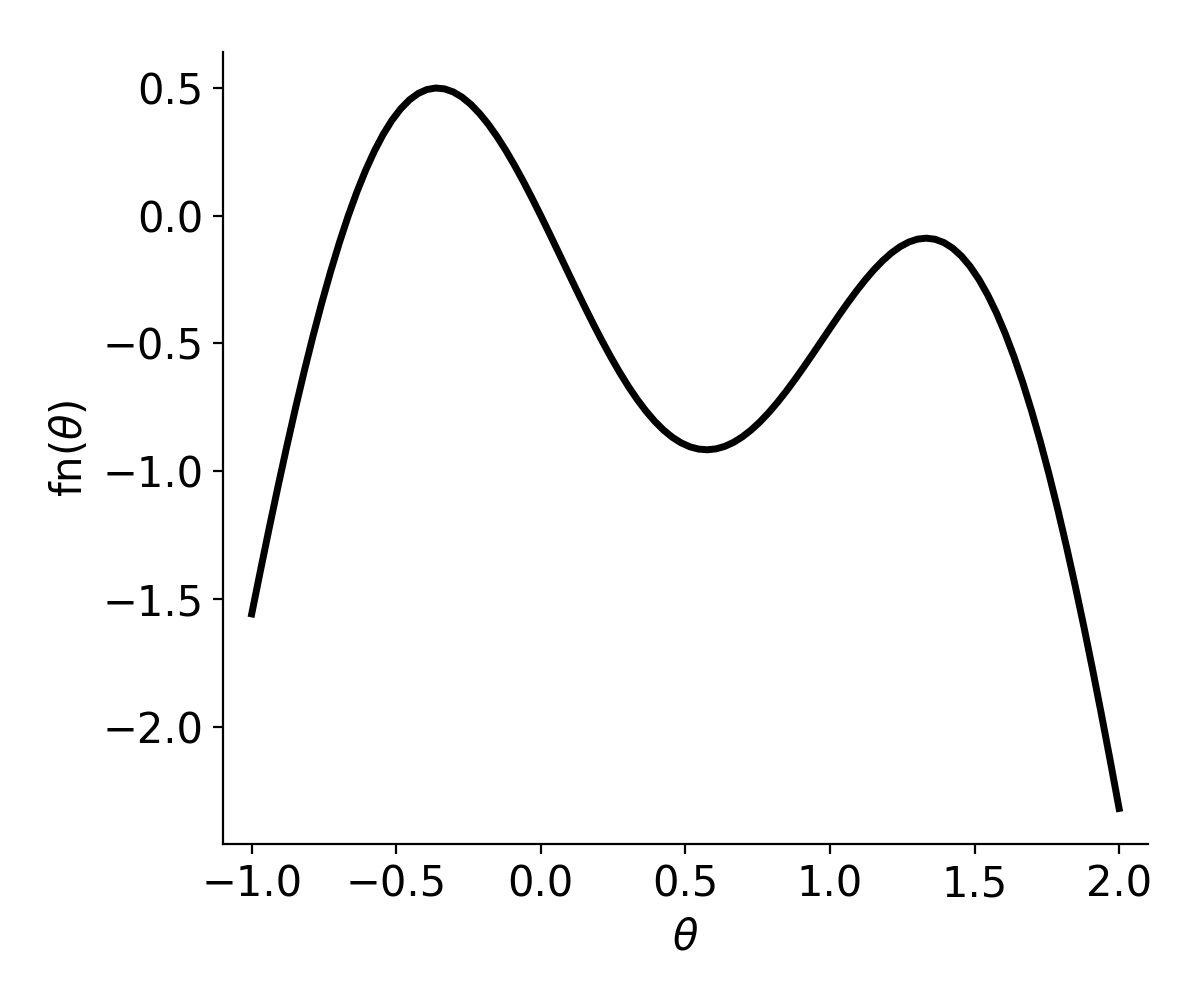
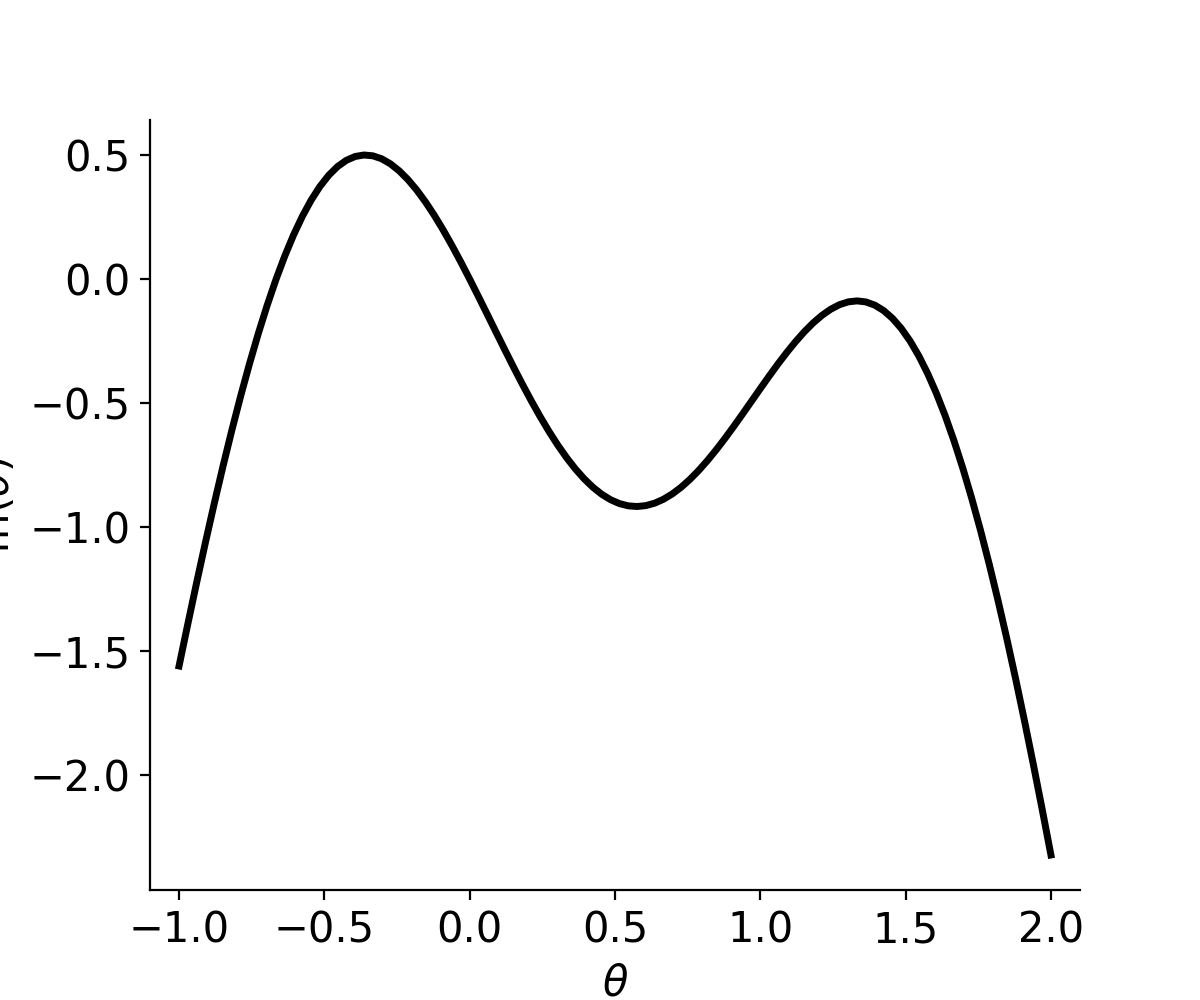
added 2D bayesian opt test, updating examples

diff --git a/approxposterior/tests/test_2DBayesOpt.py b/approxposterior/tests/test_2DBayesOpt.py
@@ -2,7 +2,7 @@
 # -*- coding: utf-8 -*-
 """
 
-Test Bayesian optimization of 1D function
+Test Bayesian optimization of 2D Rosenbrock function
 
 @author: David P. Fleming [University of Washington, Seattle], 2019
 @email: dflemin3 (at) uw (dot) edu
@@ -13,30 +13,30 @@ from approxposterior import approx, likelihood as lh, gpUtils
 import numpy as np
 from scipy.optimize import minimize
 
-def test_1DBO():
+def test_2DBO():
     """
-    Test Bayesian optimization of 1D function
+    Test Bayesian optimization of 2D Rosenbrock function
     """
 
     # Define algorithm parameters
-    m0 = 3                           # Size of initial training set
-    bounds = [[-1, 2]]               # Prior bounds
+    m0 = 50                          # Size of initial training set
+    bounds = [[-5, 5], [-5, 5]]      # Prior bounds
     algorithm = "jones"              # Expected Utility from Jones et al. (1998)
     numNewPoints = 10                # Number of new design points to find
     seed = 57                        # RNG seed
     np.random.seed(seed)
 
     # First, directly minimize the objective
-    fn = lambda x : -(lh.testBOFn(x) + lh.testBOFnLnPrior(x))
-    trueSoln = minimize(fn, lh.testBOFnSample(1), method="nelder-mead")
+    fn = lambda x : -(lh.rosenbrockLnlike(x) + lh.rosenbrockLnprior(x))
+    trueSoln = minimize(fn, lh.rosenbrockSample(1), method="nelder-mead")
 
     # Sample design points from prior to create initial training set
-    theta = lh.testBOFnSample(m0)
+    theta = lh.rosenbrockSample(m0)
 
     # Evaluate forward model log likelihood + lnprior for each point
     y = np.zeros(len(theta))
     for ii in range(len(theta)):
-        y[ii] = lh.testBOFn(theta[ii]) + lh.testBOFnLnPrior(theta[ii])
+        y[ii] = lh.rosenbrockLnlike(theta[ii]) + lh.rosenbrockLnprior(theta[ii])
 
     # Initialize default gp with an ExpSquaredKernel
     gp = gpUtils.defaultGP(theta, y, white_noise=-10, fitAmp=True)
@@ -45,14 +45,14 @@ def test_1DBO():
     ap = approx.ApproxPosterior(theta=theta,
                                 y=y,
                                 gp=gp,
-                                lnprior=lh.testBOFnLnPrior,
-                                lnlike=lh.testBOFn,
-                                priorSample=lh.testBOFnSample,
+                                lnprior=lh.rosenbrockLnprior,
+                                lnlike=lh.rosenbrockLnlike,
+                                priorSample=lh.rosenbrockSample,
                                 bounds=bounds,
                                 algorithm=algorithm)
 
     # Run the Bayesian optimization!
-    soln = ap.bayesOpt(nmax=numNewPoints, tol=1.0e-3, seed=seed, verbose=False,
+    soln = ap.bayesOpt(nmax=numNewPoints, tol=1.0e-5, seed=seed, verbose=False,
                        cache=False, gpMethod="powell", optGPEveryN=1,
                        nGPRestarts=3, nMinObjRestarts=5, initGPOpt=True,
                        minObjMethod="nelder-mead",
@@ -63,9 +63,9 @@ def test_1DBO():
     assert(np.allclose(soln["thetaBest"], trueSoln["x"], rtol=5.0e-2)), errMsg
 
     errMsg = "Maximum function value is incorrect."
-    assert(np.allclose(soln["valBest"], -trueSoln["fun"], rtol=5.0e-2)), errMsg
+    assert(np.allclose(soln["valBest"], -trueSoln["fun"], atol=1.0e-3)), errMsg
 
 # end function
 
 if __name__ == "__main__":
-    test_1DBO()
+    test_2DBO()

diff --git a/examples/bayesianOptimization/bayesopt.py b/examples/bayesianOptimization/bayesopt.py
@@ -18,15 +18,15 @@ matplotlib.rcParams.update({"font.size": 15})
 
 
 # Define algorithm parameters
-m0 = 3                           # Size of initial training set
+m0 = 2                           # Size of initial training set
 bounds = [[-1, 2]]               # Prior bounds
 algorithm = "jones"              # Expected Utility from Jones et al. (1998)
-numNewPoints = 5                 # Number of new design points to find
-seed = 27                        # RNG seed
+numNewPoints = 10                # Number of new design points to find
+seed = 57                        # RNG seed
 np.random.seed(seed)
 
 # First, directly minimize the function to see about how many evaluations it takes
-fn = lambda x : -lh.testBOFn(x)
+fn = lambda x : -(lh.testBOFn(x) + lh.testBOFnLnPrior(x))
 trueSoln = minimize(fn, lh.testBOFnSample(1), method="nelder-mead")
 
 # Sample design points from prior to create initial training set
@@ -35,10 +35,10 @@ theta = lh.testBOFnSample(m0)
 # Evaluate forward model log likelihood + lnprior for each point
 y = np.zeros(len(theta))
 for ii in range(len(theta)):
-    y[ii] = lh.testBOFn(theta[ii])
+    y[ii] = lh.testBOFn(theta[ii]) + lh.testBOFnLnPrior(theta[ii])
 
 # Initialize default gp with an ExpSquaredKernel
-gp = gpUtils.defaultGP(theta, y, white_noise=-10)
+gp = gpUtils.defaultGP(theta, y, white_noise=-10, fitAmp=True)
 
 # Initialize object using the Wang & Li (2017) Rosenbrock function example
 ap = approx.ApproxPosterior(theta=theta,
@@ -51,8 +51,8 @@ ap = approx.ApproxPosterior(theta=theta,
                             algorithm=algorithm)
 
 # Run the Bayesian optimization!
-soln = ap.bayesOpt(nmax=10, tol=1.0e-3, seed=seed, verbose=False,
-                   cache=False, gpMethod="powell", optGPEveryN=1, nGPRestarts=3,
+soln = ap.bayesOpt(nmax=numNewPoints, tol=1.0e-3, seed=seed, verbose=False,
+                   cache=False, gpMethod="powell", optGPEveryN=1, nGPRestarts=2,
                    nMinObjRestarts=5, initGPOpt=True, minObjMethod="nelder-mead",
                    gpHyperPrior=gpUtils.defaultHyperPrior)
 
@@ -73,13 +73,12 @@ ax.spines["top"].set_visible(False)
 ax.yaxis.set_ticks_position("left")
 ax.xaxis.set_ticks_position("bottom")
 
-fig.tight_layout()
 fig.savefig("objFn.png", dpi=200)
 
 # Plot the solution path and function value convergence
 fig, axes = plt.subplots(ncols=2, figsize=(12,6))
 
-iters = [ii for ii in range(soln["nev"]+1)]
+iters = [ii for ii in range(soln["nev"])]
 
 # Left: solution
 axes[0].plot(iters, soln["thetas"], "o-", color="C0", lw=3)
@@ -87,7 +86,7 @@ axes[0].axhline(trueSoln["x"], ls="--", color="k", lw=2)
 axes[0].text(0, trueSoln["x"] + 0.025, r"$\theta_{\mathrm{max}}$", color="k",
              fontsize=18)
 st = "true thetaMax: %.3e, \nestimated thetaMax : %.3e" % (trueSoln["x"], soln["thetaBest"])
-axes[0].text(1, 1, st, color="k", fontsize=12)
+axes[0].text(1, -0.3, st, color="k", fontsize=12)
 
 # Format
 axes[0].set_ylabel("Theta")
@@ -114,5 +113,4 @@ for ax in axes:
     ax.yaxis.set_ticks_position("left")
     ax.xaxis.set_ticks_position("bottom")
 
-fig.tight_layout()
 fig.savefig("bo.png", dpi=200, bbox_inches="tight")

diff --git a/approxposterior/approx.py b/approxposterior/approx.py
@@ -794,6 +794,9 @@ class ApproxPosterior(object):
         what the GP believes is the point of maximum of whatever function is
         definded by self._lnlike + self._lnprior.
 
+        Note: MAP estimation typically work better when fitAmp = True, that is
+        the GP kernel has an amplitude term
+
         Parameters
         ----------
         theta0 : iterable
@@ -884,6 +887,9 @@ class ApproxPosterior(object):
 
         Note 2: For this function, it is recommended to keep optGPEveryN = 1 to
         ensure the GP properly learns the underlying function.
+
+        Note 3: Bayesian optimization and MAP estimation typically work better
+        when fitAmp = True, that is the GP kernel has an amplitude term
 
         Parameters
         ----------
@@ -1058,7 +1064,7 @@ class ApproxPosterior(object):
         # OptimizerSolution object
         soln = {"thetaBest" : thetas[-1], "valBest" : vals[-1],
                 "thetas" : np.asarray(thetas).squeeze(),
-                "vals" : np.asarray(vals).squeeze(), "nev" : nn}
+                "vals" : np.asarray(vals).squeeze(), "nev" : nn+1}
 
         return soln
     # end function
